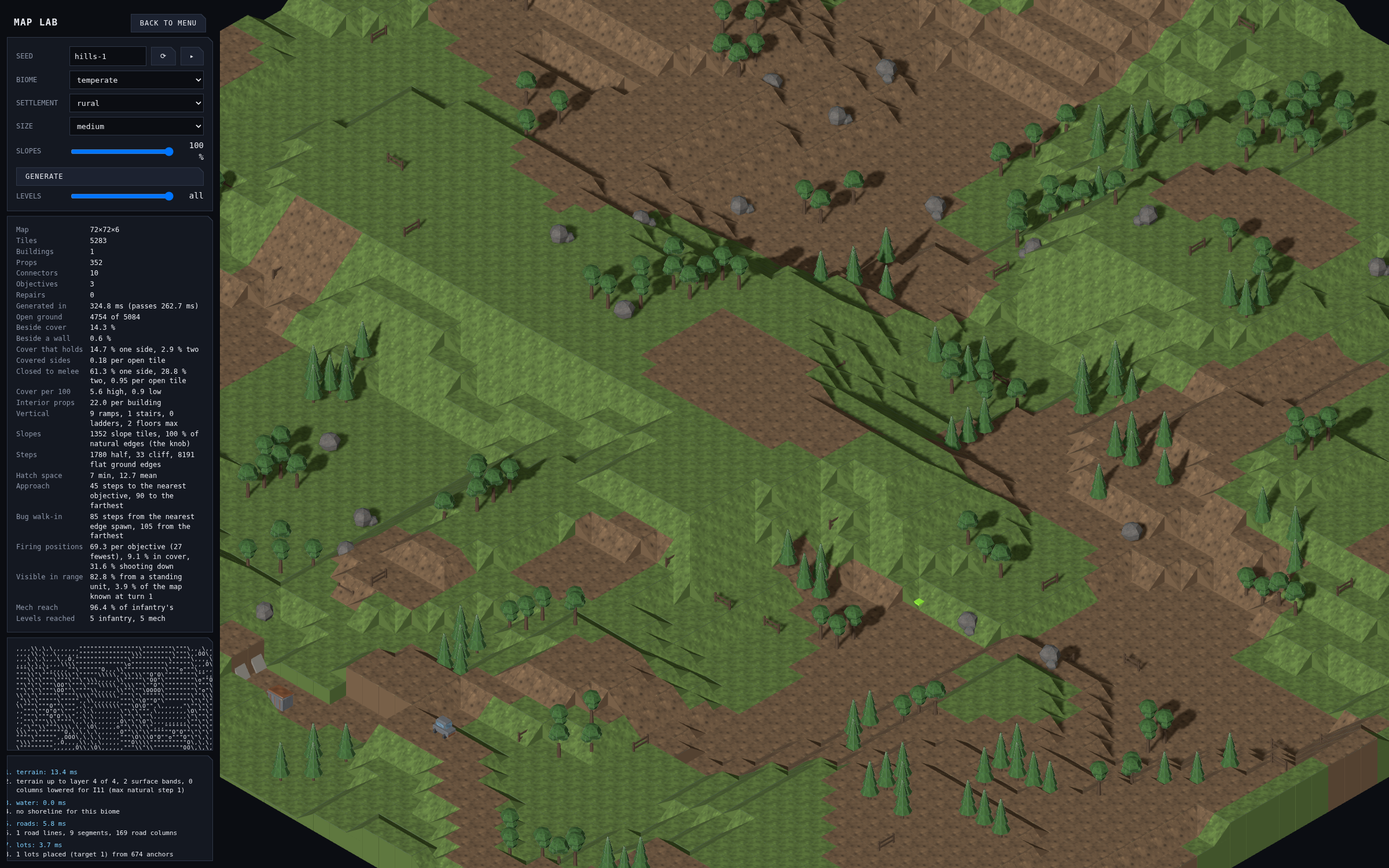
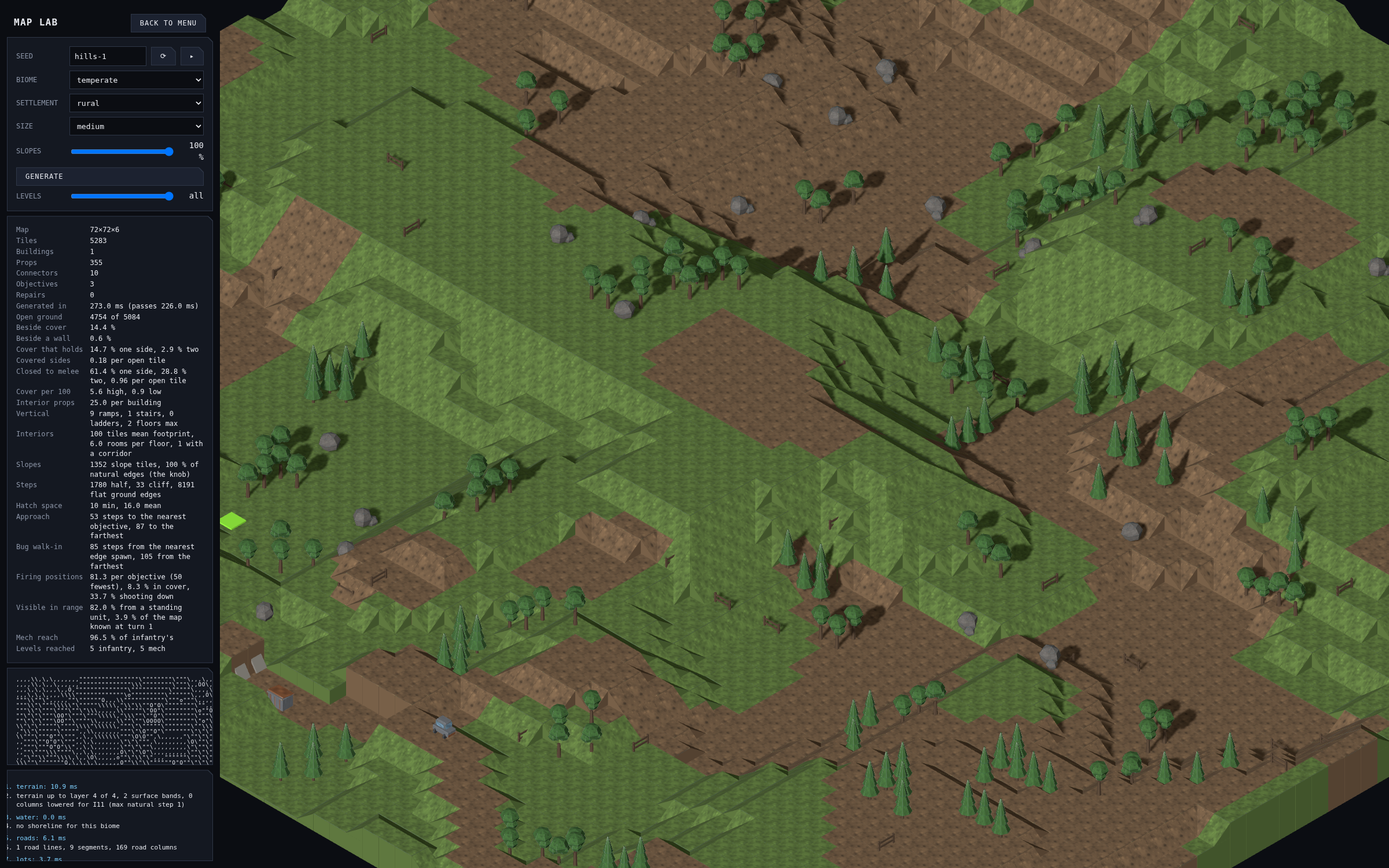
feat(mapgen): guarantee a three-floor building where the settlement allows one; #829 frames (#829)
Claude-Session: https://claude.ai/code/session_01AMpBMk7oPiwE7jNej8U9XZ

Changed region(s): [[0.0, 0.4907, 0.1562, 1.0], [0.1562, 0.5827, 0.1875, 0.6133], [0.0, 0.5213, 0.0312, 0.552]]

diff --git a/src/mapgen/generator/building-pass.ts b/src/mapgen/generator/building-pass.ts
@@ -20,6 +20,13 @@ import type { TileCoord } from "../model/tile-coord";
 import type { WallKind } from "../model/wall";
 
 // ===========================================
+// Constants
+// ===========================================
+
+/** Floors the tallest building on a map reaches where the settlement allows it. */
+const TALL_FLOORS = 3;
+
+// ===========================================
 // Types
 // ===========================================
 
@@ -86,7 +93,7 @@ export class BuildingPass implements GenerationPass {
       }
       planned.push({ lot, rng: lotRng, plan });
     }
-    ensureMultiStorey(planned, params, diagnostics);
+    ensureMultiStorey(planned, params, registries, diagnostics);
     for (const { lot, rng: lotRng, plan } of planned) {
       draft.buildings.push(raiseShell(draft, lot, plan, lotRng));
     }
@@ -112,9 +119,26 @@ function planBuilding(
   registries: GenerationContext["registries"],
   rng: Rng,
 ): BuildingPlan | undefined {
+  const candidates = fittingTemplates(lot, params, registries);
+  if (candidates.length === 0) {
+    return undefined;
+  }
+  const { template } = rng.pickWeighted(candidates, (c) => c.weight);
+  return sizePlan(lot, template, params, rng);
+}
+
+/**
+ * The biome's templates allowed at this settlement scale whose smallest
+ * footprint fits the lot, with their weights.
+ */
+function fittingTemplates(
+  lot: Lot,
+  params: ResolvedMapGenParams,
+  registries: GenerationContext["registries"],
+): { template: BuildingTemplate; weight: number }[] {
   const alongLot = frontageIsNorthSouth(lot.frontage) ? lot.rect.w : lot.rect.d;
   const deepLot = frontageIsNorthSouth(lot.frontage) ? lot.rect.d : lot.rect.w;
-  const candidates = params.biome.buildingKinds
+  return params.biome.buildingKinds
     .map((entry) => ({
       template: registries.buildingTemplates.get(entry.template),
       weight: entry.weight,
@@ -125,10 +149,17 @@ function planBuilding(
         template.footprintWidth.min <= alongLot &&
         template.footprintDepth.min <= deepLot,
     );
-  if (candidates.length === 0) {
-    return undefined;
-  }
-  const { template } = rng.pickWeighted(candidates, (c) => c.weight);
+}
+
+/** Sizes a template's footprint inside the lot and draws its floor count. */
+function sizePlan(
+  lot: Lot,
+  template: BuildingTemplate,
+  params: ResolvedMapGenParams,
+  rng: Rng,
+): BuildingPlan {
+  const alongLot = frontageIsNorthSouth(lot.frontage) ? lot.rect.w : lot.rect.d;
+  const deepLot = frontageIsNorthSouth(lot.frontage) ? lot.rect.d : lot.rect.w;
   const along = rng.nextInt(
     template.footprintWidth.min,
     Math.min(template.footprintWidth.max, alongLot),
@@ -147,29 +178,42 @@ function planBuilding(
 }
 
 /**
- * When the settlement allows two or more floors but every plan is
- * single-storey, raises the first plan whose template allows it to two
- * floors so towns and cities always offer some verticality.
+ * Guarantees the verticality the settlement allows: where it allows
+ * `TALL_FLOORS` or more floors, some building has that many; where it
+ * allows two, some building has two. A plan already there is kept; else
+ * the first lot that can hold a template tall enough is re-planned with
+ * the tallest such template. Cities at the ADR 0009 scale hold few
+ * enough buildings that the biome's weights alone no longer promise an
+ * apartment on every map (#829).
  */
 function ensureMultiStorey(
   planned: { lot: Lot; rng: Rng; plan: BuildingPlan }[],
   params: ResolvedMapGenParams,
+  registries: GenerationContext["registries"],
   diagnostics: DiagnosticSink,
 ): void {
-  if (
-    params.settlement.floorCount.max < 2 ||
-    planned.some((p) => p.plan.floorCount >= 2)
-  ) {
+  const want = Math.min(TALL_FLOORS, params.settlement.floorCount.max);
+  if (want < 2 || planned.some((p) => p.plan.floorCount >= want)) {
     return;
   }
-  const candidate = planned.find((p) => p.plan.template.floors.max >= 2);
-  if (candidate === undefined) {
+  for (const entry of planned) {
+    const tall = fittingTemplates(entry.lot, params, registries)
+      .map((c) => c.template)
+      .filter((t) => t.floors.max >= want)
+      .sort((a, b) => b.floors.max - a.floors.max)[0];
+    if (tall === undefined) {
+      continue;
+    }
+    const plan = sizePlan(entry.lot, tall, params, entry.rng.fork("tall"));
+    entry.plan = {
+      ...plan,
+      floorCount: Math.max(plan.floorCount, Math.max(want, tall.floors.min)),
+    };
+    diagnostics.note(
+      `re-planned ${entry.lot.id} as a ${tall.id} of ${String(entry.plan.floorCount)} floors for verticality`,
+    );
     return;
   }
-  candidate.plan = { ...candidate.plan, floorCount: 2 };
-  diagnostics.note(
-    `raised ${candidate.plan.template.id} on ${candidate.lot.id} to two floors`,
-  );
 }
 
 /**

diff --git a/e2e/slope-screenshot.spec.ts b/e2e/slope-screenshot.spec.ts
@@ -107,18 +107,23 @@ for (const control of CONTROLS) {
           }),
         FRAME_SAMPLE_MS,
       );
-      const stats = await page.locator("#stats").innerText();
+      const stats = await page
+        .locator("#stats")
+        .evaluate((list) =>
+          [...list.querySelectorAll("dt")].map(
+            (term) =>
+              `${term.textContent ?? ""}: ${term.nextElementSibling?.textContent ?? ""}`,
+          ),
+        );
       const fps = (frames * 1000) / FRAME_SAMPLE_MS;
       writeFileSync(
         FRAME_RATE_FILE,
         [
           `${control.query} (models=1, 2400×1500, headless chromium on the runner's software renderer)`,
           `${String(frames)} frames in ${String(FRAME_SAMPLE_MS)} ms = ${fps.toFixed(1)} fps`,
-          ...stats
-            .split("\n")
-            .filter((line) =>
-              /^(Map|Tiles|Buildings|Props|Generated in)/.test(line),
-            ),
+          ...stats.filter((line) =>
+            /^(Map|Tiles|Buildings|Props|Generated in)/.test(line),
+          ),
         ].join("\n") + "\n",
       );
     }
